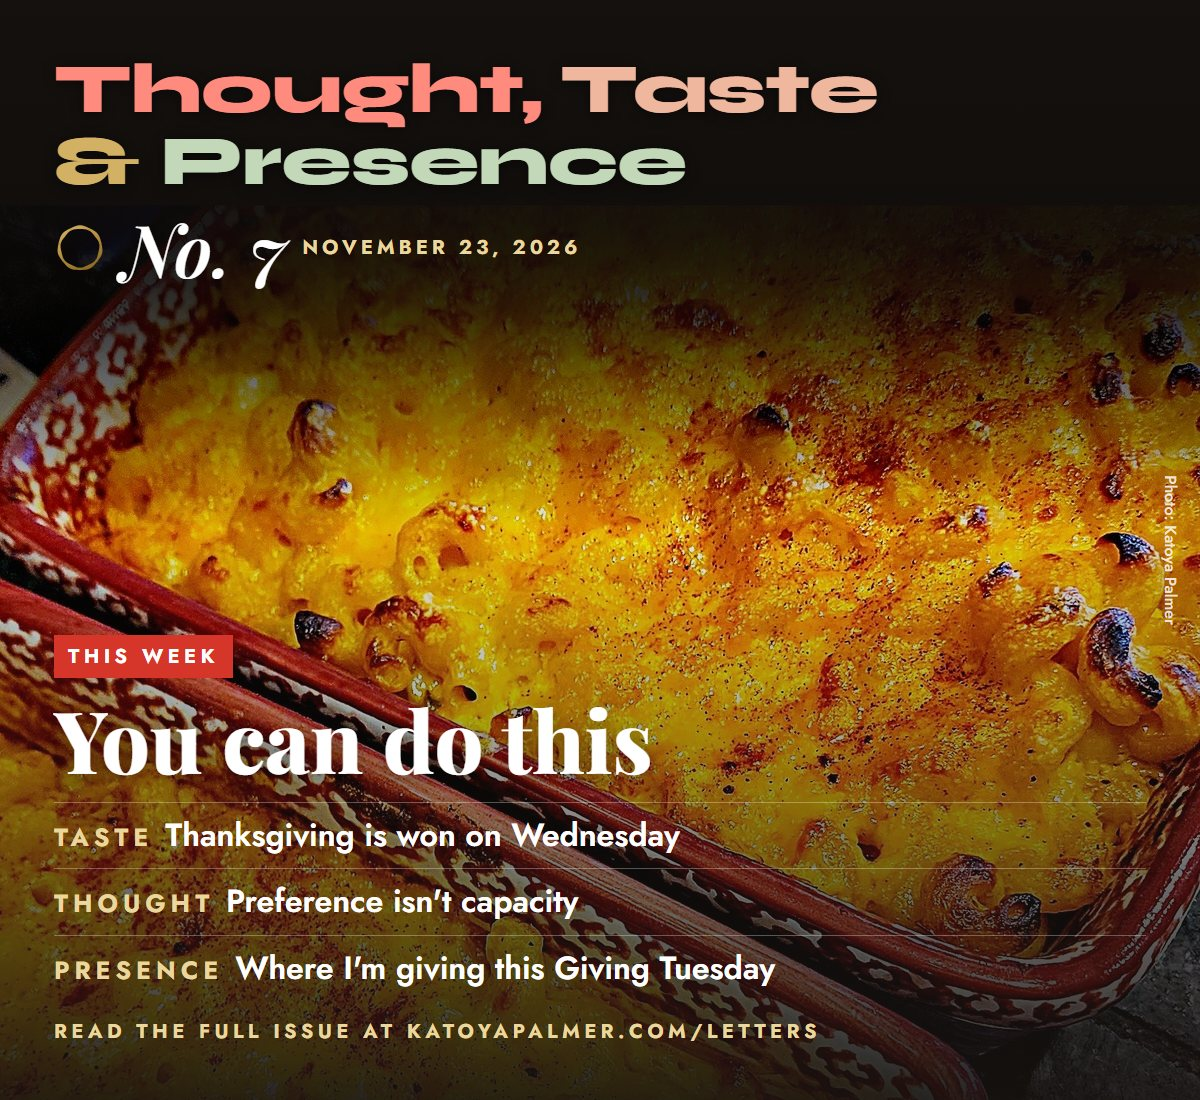
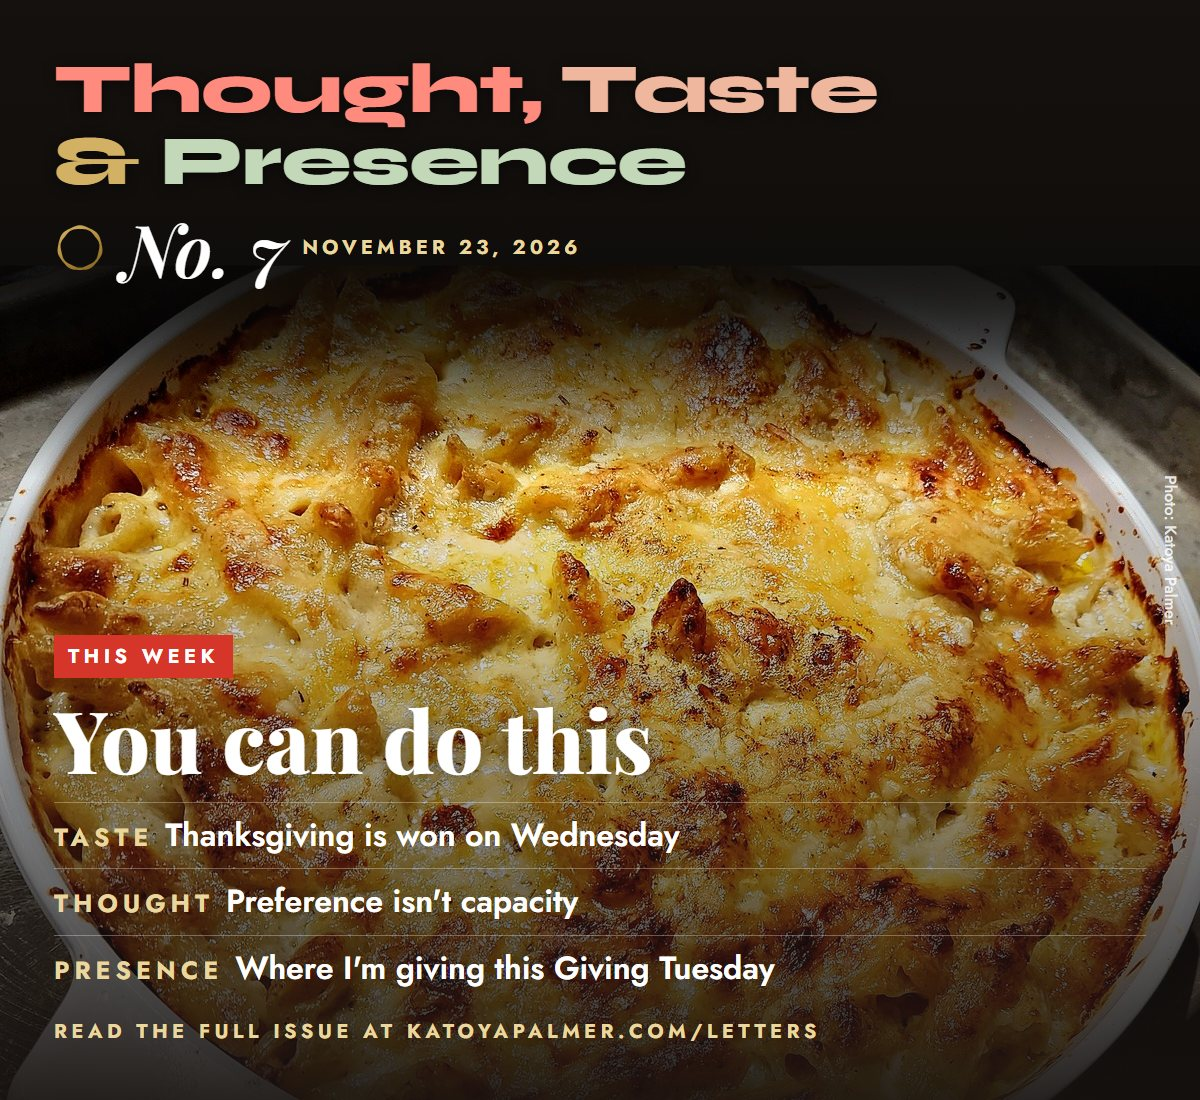
TT&P Issue 7: cover is the round white dish of mac and cheese from May 2024 (Katoya 11/23), dark band kept

diff --git a/letters/2026-11-23-issue-07.html b/letters/2026-11-23-issue-07.html
@@ -27,7 +27,7 @@
 <meta name="twitter:title" content="You can do this | Thought, Taste &amp; Presence, Issue 7" />
 <meta name="twitter:description" content="Thanksgiving is won on Wednesday, preference isn't capacity, where I'm giving on Giving Tuesday, and the letter takes a week off." />
 <meta name="twitter:image" content="https://www.katoyapalmer.com/media/letters/issue-07/share_1200x630.jpg" />
-<meta name="twitter:image:alt" content="Thought, Taste and Presence, No. 7, November 23, 2026: two pans of Katoya's baked mac and cheese, golden crust, in red patterned dishes. You can do this. Taste: Thanksgiving is won on Wednesday. Thought: Preference isn't capacity. Presence: Where I'm giving this Giving Tuesday." />
+<meta name="twitter:image:alt" content="Thought, Taste and Presence, No. 7, November 23, 2026: Katoya's baked mac and cheese, golden crust, in a round white dish. You can do this. Taste: Thanksgiving is won on Wednesday. Thought: Preference isn't capacity. Presence: Where I'm giving this Giving Tuesday." />
 <link rel="preconnect" href="https://fonts.googleapis.com" />
 <link rel="preconnect" href="https://fonts.gstatic.com" crossorigin />
 <link href="https://fonts.googleapis.com/css2?family=Syne:wght@600;700;800&family=Space+Grotesk:wght@400;500;600;700&family=Jost:wght@400;500;600;700&family=Italianno&family=Playfair+Display:ital,wght@0,600;0,800;1,500;1,600&family=Newsreader:ital,opsz,wght@0,6..72,400;0,6..72,600;1,6..72,400&display=swap" rel="stylesheet" />
@@ -93,7 +93,7 @@
 </header>
 
 <header class="tp-cover">
-  <img class="tp-cover-img" src="/media/letters/covers/issue-07-mac-and-cheese.jpg" width="1440" height="1080" alt="Two pans of Katoya's baked mac and cheese in red patterned dishes, golden crust with browned edges, on a dark counter">
+  <img class="tp-cover-img" src="/media/letters/covers/issue-07-mac-and-cheese.jpg" width="1440" height="1080" alt="Katoya's baked mac and cheese with a golden brown crust in a round white dish, with the dark top of the Issue 7 cover">
   <span class="tp-credit">Photo: Katoya Palmer</span>
   <div class="tp-cover-txt">
     <p class="tp-no"><b>No. 7</b> The weekly letter</p>

diff --git a/letters/index.html b/letters/index.html
@@ -75,7 +75,7 @@
   <ul class="tp-rack">
     <!-- Newest issue first, with class="latest". Each cover: photo, name, number and date, headline, top 3 stories. -->
     <li class="latest"><a class="tp-cov latest" href="/letters/2026-11-23-issue-07.html">
-      <img src="/media/letters/covers/issue-07-mac-and-cheese-rack.jpg" width="600" height="800" alt="Two pans of Katoya's baked mac and cheese with golden brown crusts in red patterned dishes">
+      <img src="/media/letters/covers/issue-07-mac-and-cheese-rack.jpg" width="600" height="800" alt="Katoya's baked mac and cheese with a golden brown crust in a round white dish, with the dark top of the Issue 7 cover">
       <div class="top"><span class="name"><span class="tp-t-l">Thought,</span> <span class="tp-a-l">Taste</span><br><span class="tp-amp-l">&amp;</span> <span class="tp-p-l">Presence</span></span><span class="no">No. 7<small>November 23, 2026</small></span></div>
       <div class="bot">
         <span class="tp-new">This week</span>
